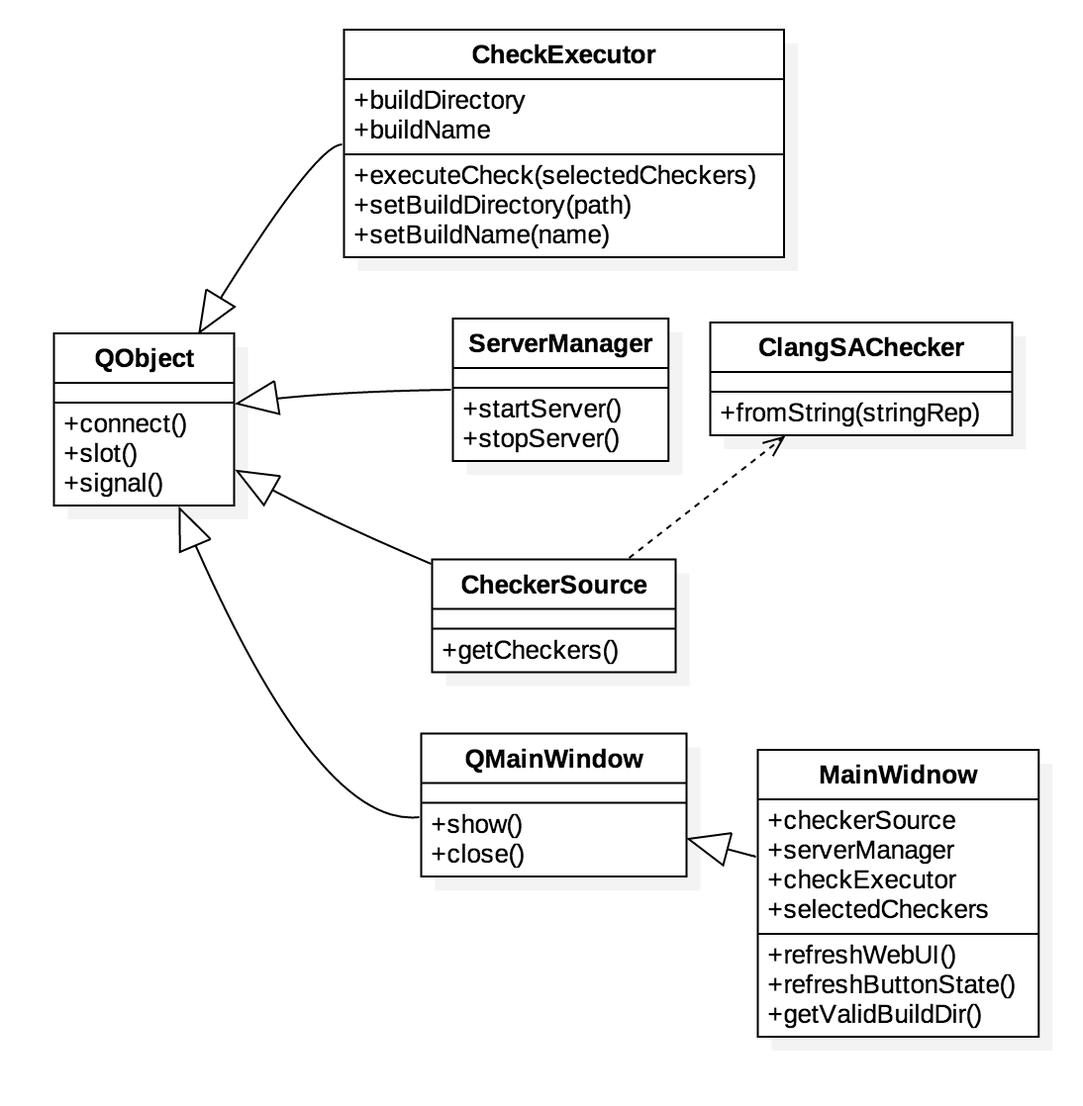
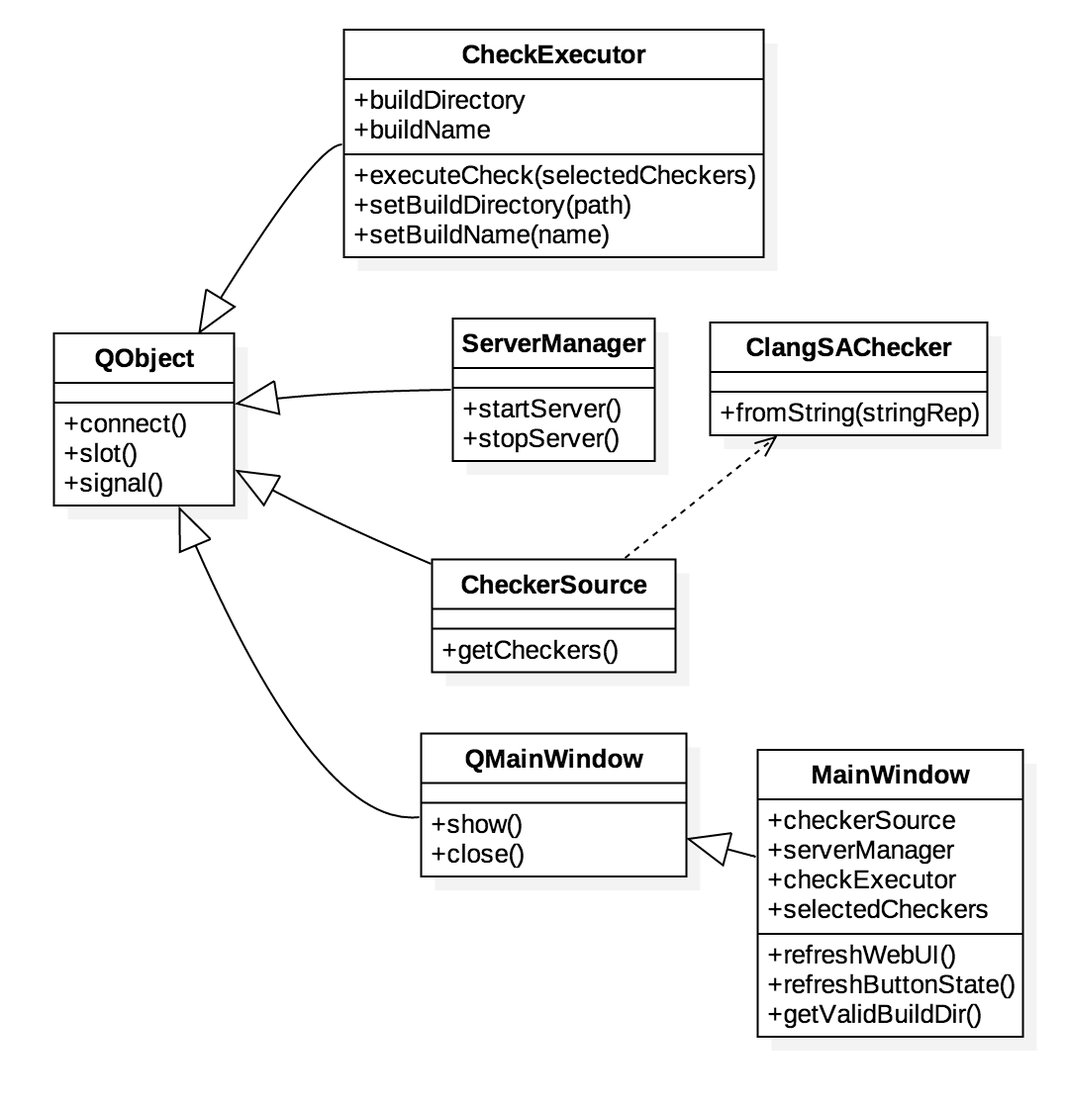
Add checker diagram, fixes

diff --git a/szakdolgozat.tex b/szakdolgozat.tex
@@ -137,7 +137,7 @@ Az ilyen jellegű hibák felismerésére több információval kell rendelkeznü
 \item az \texttt{open} hívás visszatérési értékével, mint paraméterrel nem volt hívás a \texttt{close} függvényre
 \end{itemize}
 Az, hogy egy változóban tároljuk el az \texttt{open} hívás értékét, technikai részlet. Mégis fontos, mert nem lenne sok értelme egy megnyitott leírót rögtön bezárni, és a hibakeresés lehetőségétől is elesnénk.
-Valójában azt is mondhatjuk, hogy minden szemantikailag helyes használata ennek az API-nak feltételezi, hogy a fileleíró értékét a memóriában őrizzük ameddig ténylegesen használjuk az erőforrást. Mindezt azért, mert így később fel tudjuk szabadítani. Ilyen esetben a kiegészített követelményrendszer:
+Valójában azt is mondhatjuk, hogy minden szemantikailag helyes használata ennek az API-nak feltételezi, hogy a fileleíró értékét a memóriában őrizzük ameddig ténylegesen használjuk az erőforrást. Mindezt azért, mert így később fel tudjuk szabadítani. Az eddigi észrevételeinket az alábbi módon egészíthetjük ki:
 \begin{itemize}
 \item volt egy \texttt{open} hívás
 \item az \texttt{open} hívás visszatérési értékét egy változó formájában eltároljuk a memóriában, jelenleg ez az \emph{fd}
@@ -289,7 +289,7 @@ Az \emph{LLVM} projekt optimalizálási technikák széles körét beveti, hogy 
 \section{Clang}
 A \emph{Clang} egy frontend, amely a C nyelvi család fordítását végzi. Ennek eredménye az LLVM IR forma. A \emph{Clang} fejlesztése közben emellett az is szempont volt, hogy megfelelő betekintést adjon a fordítás folyamatába, és jó minőségű diagnosztikai információval szolgáljon. Így a \emph{Clang} fordító nem csak a végzetes hibákat jelző üzenetekkel kommunikál a fejlesztő felé, hanem figyelmeztető üzenetekkel is. Emellett a \emph{Clang} forráselemző és forrástranszformációs feladatot is ellát. Ezek a tevékenységek a fordítás során végzett szintaktikus elemzés eredményeit használják fel, így kézenfekvő, hogy a \emph{Clang} keretében kerültek megvalósításra.
 
-\subsection{Fordító}
+\subsection*{Fordító}
 A \emph{Clang} elsődleges célja, hogy a C nyelvi család általános fordítójaként használhassák. Ezt a feladatot a kiadásakor legszélesebb körben a GNU Compiler Collection látta el, és még ma is meghatározó a szerepe. A \emph{Clang}-et a fejlesztők úgy alkották meg, hogy a lehető leginkább egy a GCC fordítóval kompatibilis, annak alternatív fordítójaként használható eszköz legyen. Emellett, hogy sok platformon el tudjon terjedni, szüksége van arra, hogy a megfelelő nyelvi forrásfájlokat, illetve programkönyvtárakat fel tudja használni. A legtöbb UNIX alapú rendszer mellett a \emph{Clang} már Windows rendszeren képes akár a natív Visual Studio által kialakított környezettel együttműködni \cite{clangusermanual}.
 
 A GCC-vel való kompatibilitás és az funkciója, hogy képes más fordítási és rendszerkörnyezetekkel együttműködni jelentős többletkomplexitást ad az ,,egyszerű" fordítási feladatához. Emiatt a megvalósítása során több rétegű alkalmazásmodellt választottak a fejlesztők. A \emph{Clang} eszköz a végfelhasználó számára elsődlegesen egy, a platformnak megfelelően lefordított és csomagolt bináris állományként áll rendelkezésre. Ez az eszköz alapértelmezetten a \emph{Clang} driver részét használja, amely meghajtja a fordítási folyamatot. Ez felelős a parancssori opciók feldolgozásáért, a programkönyvtárak és a rendszerhez tartozó forrásfájlok megtalálásáért. Ez a rész az ami a beérkező parancs és argumentumok együtteséből egy konkrét művelet tervét elkészíti. Lásd \ref{fig:clangdriver}.
@@ -347,7 +347,7 @@ Miután a fordító kiválasztott egy eszközt, az eszköz feladata, hogy Comman
 \subsubsection{Execute}
 A fordítás végrehajtása a driver számára a legegyszerűbb lépés, kevés opcióval, van azonban lehetőség a programkimenetek átirányítására, az egyes eszközök visszatérési értékeinek továbbadására, illetve a folyamatok teljesítménymérésére is.
 
-\subsection{Elemző}
+\subsection*{Elemző}
 A \emph{Clang} eszköz alapértelmezetten megpróbál segítséget nyújtani a fordítás során akkor is ha külön nem kérjük rá. A fordításkor felmerülő hibaüzenetek mellett figyelmeztetőüzenet széles skáláját használja ahhoz, hogy az esetleges hibák, nem várt működések kiküszöbölésében segítse a programozót.
 
 A fordítás közben kiadott hibaüzenetek és figyelmeztetések mellett lehetőség van más vizsgálatok lefuttatására is amelyek a tüzetesebb vizsgálatnak vetik alá a programot. Ezek általában valamilyen futás, vagy fordításidejű költséggel rendelkeznek, ezért a közönséges fordítás alatt nem futnak le alapértelmezetten.
@@ -645,7 +645,8 @@ sudo apt-get install clang-3.8 build-essential curl doxygen gcc-multilib \
 
 Ezután a könyvtárban található \texttt{install.sh} script segítségével lehet telepíteni a CodeCheker-t, és magát az alkalmazást is. Internetkapcsolat szükséges, mert a Python csomagkezelő, illetve a CodeChecker egyedi függőségeinek feloldása is megköveteli. A \emph{CodeChecker} alapértelmezetten a függőségek között feltelepített clang-3.8 -as verziót használja, de természetesen lehetőség van felhasználó által összeállított könyvtár használatára is. Ennek lépéseit már ismertettem a dolgozat első felében a 3.1-es fejezetben. Ha az aktuális felhasználó home könyvtárában végeztük az ott szereplő lépéseket, akkor a program már alapértelmezetten azt használja, elősegítve a fejlesztői környezet gyors összeállítását. Ha esetleg más könyvtárban tároljuk a lefordított \emph{LLVM} és \emph{Clang} komponenseket, akkor a használni kívánt könyvtárat a \texttt{codechecker-wrapper} állományban állíthatjuk be.
 
-A programot a \texttt{checkrunner.sh} állomány segítségével indíthatjuk el. A grafikus felület indításakor a program kezelőfelületén láthatjuk az aktuálisan használt \emph{Clang} eszközben regisztrált checker-eket a bal felső részen. A felület lehetőséget biztosít arra, hogy csak bizonyos checker-eket futtassunk le. Ez kifejezetten hasznos amikor tesztelni szeretnénk egy általunk fejlesztett modult. A modulok neve szerepel a felsorolásban, amelyek mellett pipálható dobozok segítségével érvényesíthetjük a választásunkat.
+\section{Használat}
+A programot a \texttt{checkrunner.sh} állomány segítségével indíthatjuk el. A grafikus felület indításakor a program kezelőfelületén láthatjuk az aktuálisan használt \emph{Clang} eszközben regisztrált checker-eket a bal felső részen. A felület lehetőséget biztosít arra, hogy csak bizonyos checker-eket futtassunk le. Ez kifejezetten hasznos amikor tesztelni szeretnénk egy általunk fejlesztett modult. A modulok neve szerepel a felsorolásban, amelyek mellett pipálható dobozok (checkbox-ok) segítségével érvényesíthetjük a választásunkat.
 
 
 \begin{figure}[h]
@@ -654,7 +655,7 @@ A programot a \texttt{checkrunner.sh} állomány segítségével indíthatjuk el
 \includegraphics[scale=0.36]{ui.png}
 \end{figure}
 
-A felület bal alsó részén található egy indikátor, mely a háttérben futó adatbázis, és webszerver állapotát hivatott mutatni, ha \emph{Running!} szöveg szerepel, akkor fut, és ebben az esetben lehetőség van a használat megkezdésére. A következő sorban megadhatjuk az analízis nevét, ezzel tudjuk megtalálni a későbbiekben. A következő sorban meg kell adnunk azt az útvonalat, amely az elemzésre váró projekthez tartozik. Megkötés, hogy csak olyan projektmappát választhatunk ki, amely rendelkezik egy \texttt{Makefile} állománnyal. Ha esetlegesen nem a GNU Make alkalmazás segítségével működik a build rendszerünk, akkor sok esetben valamilyen előfeldolgozó lépés után Makefile-okhoz juthatunk, és akkor az alkalmazás már tudja futtatni az analízist. Abban az esetben, ha nem megfelelő a könyvtár, a program informatív hibaüzenettel kommunikálja ezt a felhasználó felé. Ameddig az analízis nem futtatható, addig szürke állapotban láthatjuk a \emph{Run check} gombot.
+A felhasználói felület indításakor automatikusan elindítja a CodeChecker beépített adatbázis, és webszerver komponensét, és ezen komponensek folyamatos működése előfeltétele a program működésének. A felület bal alsó részén található egy indikátor, mely a háttérben futó adatbázis, és webszerver állapotát hivatott mutatni. ha \emph{Running!} szöveg szerepel, akkor fut, és ebben az esetben lehetőség van a használat megkezdésére. A következő sorban megadhatjuk az analízis nevét, ezzel tudjuk megtalálni a későbbiekben. A következő sorban meg kell adnunk azt az útvonalat, amely az elemzésre váró projekthez tartozik. Megkötés, hogy csak olyan projektmappát választhatunk ki, amely rendelkezik egy \texttt{Makefile} állománnyal. Ha esetlegesen nem a GNU Make alkalmazás segítségével működik a build rendszerünk, akkor sok esetben valamilyen előfeldolgozó lépés után Makefile-okhoz juthatunk, és akkor az alkalmazás már tudja futtatni az analízist. Abban az esetben, ha nem megfelelő a könyvtár, a program informatív hibaüzenettel kommunikálja ezt a felhasználó felé. Ameddig az analízis nem futtatható, addig szürke állapotban láthatjuk a \emph{Run check} gombot.
 
 
 \begin{figure}[h]
@@ -681,12 +682,12 @@ Itt lehetőségünk van még az egyes futások eredményeinek törlésére, ille
 \includegraphics[scale=0.4]{ui_results_open.png}
 \end{figure}
 
-A program \texttt{File} menüjében egy \texttt{Open} és egy \texttt{Exit} művelet található. Az \texttt{Open} művelet ugyanazt a szerepet látja el mint a build-könyvtárat kiválasztó gomb, de lehetőség van \texttt{Control-O} billentyűparancssal az elérésére. Az \texttt{Exit} művelet értelemszerűen a kilépésre szolgál, billentyűparancsa a \texttt{Control-Q}. Emellett az ablakkezelő rendszer szokások kicsinyítés és nagyítás, tálcára helyezés és befejezés műveleteit is használhatjuk.
+A program \texttt{File} menüjében egy \texttt{Open} és egy \texttt{Exit} művelet található. Az \texttt{Open} művelet ugyanazt a szerepet látja el, mint a build-könyvtárat kiválasztó gomb, de lehetőség van \texttt{Control-O} billentyűparanccsal az elérésére. Az \texttt{Exit} művelet értelemszerűen a kilépésre szolgál, billentyűparancsa a \texttt{Control-Q}. Emellett az ablakkezelő rendszer szokásos kicsinyítés és nagyítás, tálcára helyezés és befejezés műveleteit is használhatjuk.
 
 \chapter{Fejlesztői dokumentáció}
 
 \section{Grafikus felület}
-A program felhasználói felülete a Qt eredetileg C++-ban írt rendszerét használja, mégis a CheckRunner végleges verziója Python nyelven került megvalósításra. A PyQt5 csomag gondoskodik a grafikus keretrendszer dinamikusan betölthető könyvtárainak elérhetővé tételéről. A modul írói elvégezték azokat a platformspecifikus illesztéseket, amelyek lehetővé teszik, hogy egy univerzális Python 3-as alkalmazás is ki tudja használni a Qt keretrendszer közel minden funkcióját.
+A program felhasználói felülete a Qt \cite{qthomepage} eredetileg C++-ban írt rendszerét használja, mégis a CheckRunner végleges verziója Python nyelven került megvalósításra. A PyQt5 csomag gondoskodik a grafikus keretrendszer dinamikusan betölthető könyvtárainak elérhetővé tételéről. A modul írói elvégezték azokat a platformspecifikus illesztéseket, amelyek lehetővé teszik, hogy egy univerzális Python 3-as alkalmazás is ki tudja használni a Qt keretrendszer közel minden funkcióját.
 
 A CheckRunner szoftveren való fejlesztésbe be lehet tehát kapcsolódni anélkül, hogy a felhasználói követelményeknél többet kellene teljesítenünk. A program alapvetően egy főablakból áll, amely modulárisan felhasznál három másik komponenst, hogy a CodeChecker háttérfolyamatokkal kommunikáljon. A program által megoldott problémák közül a háttérfolyamatokkal való kommunkáció volt a legérdekesebb. Előfordulnak egyszeri, gyorsan lefutó parancsok, hosszantartó folyamatok, melyekkel kommunikálni kell, és egy olyan folyamat is amely maga is szülőprocessz-ként viselkedik, és amelynek megállítása nem vonja maga után a gyerekeinek a megállását sem. Ezen esetek a fejlesztés során szerzett tapasztalataim szerint mind előfordulnak.
 
@@ -728,9 +729,11 @@ Mindhárom alkomponens szignálokkal kommunikál a főablakkal, hogy az aszinkro
 \includegraphics[scale=0.3]{osztalydiagram.png}
 \end{figure}
 
-A kiválasztott és nem kiválasztott checkereket külön külön listában tartjuk számon, mert alapvetően a CheckExecutor osztály executeCheck metódusának parancssori paraméterekel kell felsorolnia, hogy mely checker-eket kívánja futtatni és melyeket kihagyni. A checker-ek leképezése a felhasználó felület kiválasztott elemeivé, illetve a fordított irányú konverzió a MainWindow osztályban zajlik le.
+A kiválasztott és nem kiválasztott checker-eket külön-külön listában tartjuk számon, mert alapvetően a CheckExecutor osztály executeCheck metódusának parancssori paraméterekel kell felsorolnia, hogy mely checker-eket kívánja futtatni és melyeket kihagyni. A checker-ek leképezése a felhasználó felület kiválasztott elemeivé, illetve a fordított irányú konverzió a MainWindow osztályban zajlik le.
 
 A CodeChecker hagyományos használatával ellentétben a CheckRunner nem egy parancs keretében tisztítja meg a build-könyvtára és építi újból a vizsgált projektet, hanem két egymást követő folyamat keretében. Ennek a QProcess osztály parancsértelmező képessége szab határt, nem tud beágyazott parancsokat kezelni. Emiatt a folyamatkezelés kissé bonyolultabb lesz az executeCheck metódusban.
+
+A program a CodeChecker-rel való együttműködése során kihasználja  annak szolgáltatásait, egyrészt, hogy a checker-futtatás eredményét egy alapértelmezetten fájlalapú adatbázisban tárolja, másrészt, hogy ezzel az adatbázissal kommunkálva, webes felületen biztosít hozzáférést a CodeChecker az eredményekhez.
 
 \begin{figure}[h]
 \caption{Felhasználói esetek.}
@@ -771,7 +774,11 @@ std::cout << std::setprecision(3) << var;
 
 A megvalósítás során felhasználjuk a Clang SA által a checker-eknek biztosított tárolási lehetőséget egy asszociatív (map) jellegű tároló formájában. Minden stream-et a memóriában elfoglalt helye alapján azonosítunk, és ehhez, mint kulcshoz rendeljük a saját magunk által számon tartott formázási állapotok struktúráját, illetve hogy eredetileg melyik függvényben történt az első változtatás. Így a szimbolikus végrehajtás során minden alkalommal amikor egy egyező memóriaterületű stream objektumon módosítást tapasztalunk, akkor feljegyezzük. Az \texttt{EndFunction} eseményre ezután már könnyű reagálni, hiszen csak meg kell nézni, milyen streamek állapotait tartjuk számon, azok közül amelyiknél a bejegyzett első módosítás környezete éppen az a függvény amiből kilépünk. Ha az állapotok közül ilyenkor egy is eltér az alapértelmezettől, akkor hibaüzenetet adunk. Itt kezeljük még a kivételes esetet is, amikor volt \texttt{.flags()} hívás az objektumon. Ilyen esetben nem adunk hibát bármilyen is legyen a számon tartott stream.
 
---------- osztálydiagram az ostreamchecker fontosabb részeiről ---------
+\begin{figure}[h]
+\caption{A két checker egyszerűsített osztálydiagramja.}
+\centering
+\includegraphics[scale=0.4]{checkers.png}
+\end{figure}
 
 Az EnumCastOutOfRange checker egyszerűbb felépítésű. Itt a feladat az volt, hogy akkor adjunk hibát, hogy ha egy olyan típuskikényszerítés (cast) történik, melynek operandusa egy egész értéktípusba tartozó érték, és a paramétere, vagyis az a típus amibe kényszerítjük egy olyan enumeráció típus, amely típus definíciójából kiderül, hogy nem is képes reprezentálni az operandust.
 
@@ -782,19 +789,18 @@ enum GraphNode {
 	GRAY,
 	BLACK
 };
-
 GrapNode startNode = static_cast<GraphNode>(5);
 //startNode's value is undefined
 \end{lstlisting}
 
-Ilyen esetben ha nem képes az enumerációs típus tárolni az értéket, akkor cast eredménye nem definiált. Ahhoz, hogy egy enumerációs típus használni tudjunk szükség van a definíciójára a használat pontján, így azt a stratégiát választottam, hogy iratkozzon fel a checker a \texttt{PreStmt}, vagyis pre-statement, egy utasítás végrehajtása előtti eseményre. Abban az esetben, ha ez az utasítás egy cast-ot jelent (ez lehet C-stílusú, vagy lehet C++-os static\_cast), és ráadásul a céltípus enumerációs jellegű, akkor megvizsgálom hogy lehetséges ez a művelet.
+Ilyen esetben ha nem képes az enumerációs típus tárolni az értéket, akkor cast eredménye nem definiált. Ahhoz, hogy egy enumerációs típus használni tudjunk szükség van a definíciójára a használat pontján, így azt a stratégiát választottam, hogy iratkozzon fel a checker a \texttt{PreStmt}, vagyis pre-statement, egy utasítás végrehajtása előtti eseményre. Abban az esetben, ha ez az utasítás egy cast-ot jelent (ez lehet C-stílusú, vagy lehet C++-os static\_cast), és ráadásul a céltípus enumerációs jellegű, akkor megvizsgálom,  hogy ez a művelet a probléma kitűzése szerint valid lehet-e.
 
 Ehhez egyik oldalról szükség van az enumeráció definíciójára, ez rendelkezésre is áll. A definíció egyszerűen megtalálható, és ha mint AST egy szelete hozzáfértünk, akkor meg is tudjuk belőle a lehetséges értékeket. Másik oldalról szükséges számunkra az érték amit cast-olunk. Ez sokszor nehezebb, és a checker kihasználja, hogy szimbolikus értékekkel történik a végrehajtás. A szimbolikus értékek valójában a valós futás során ténylegesen létező értékeket szimbolizálják megkötések (constraint-ek) formájában. Még ha nem is ismert az operandus konkrét értéke, a Clang SA által vezetett megszorításlisták segítségével ellenőrizhetjük, hogy létezik-e olyan eset, hogy az operandus valóban megfelelő értékkel bír. Akkor adunk hibát, ha nem létezik ilyen eset, hiszen egyik célunk, hogy ne produkáljunk hamis pozitív jelzéseket, ezért konzervatív módon járunk el.
 
 
 \chapter{Tesztek}
 
-Mindkét checker-em rendelkezik automatizált unit-tesztekkel. Az OStreamFormatChecker tesztelése során külön nehézséget jelentett, hogy az egyik legvalószínűbb tesztelési célpont a sztenderd kimenetet szimbolizáló std::cout, ez pedig megvalósítását tekintve úgy működik a legtöbb sztenderd nyelvi könyvtár (STL) megvalósításban, hogy az iostream header tartalmaz egy statikus tagot, amely tárolja a globális \texttt{std::cout} stream objektumot. Emiatt a viselkedése miatt az egész \emph{LLVM} kódbázisból ki van tiltva az iostream header használata. Ahhoz hogy tesztelni tudjam a checkert létre kellett hozni az STL-es output rendszer a vázát, amely alapján ha implementáció nélkül is, de szintaktikailag helyesen lehet hivatkozni a tesztesetek közben az \texttt{std::cout} objektumra, és a rá értelmezett műveletekre. Ez a mock-megvalósítás maga legalább annyi időt vesz igénybe mint a tesztesetek megírása, viszont sokat segíthet másoknak is aki hasonló funkcionalitás tesztelésébe fognak.
+Mindkét checker-em rendelkezik automatizált unit-tesztekkel. Az OStreamFormatChecker tesztelése során külön nehézséget jelentett, hogy az egyik legvalószínűbb tesztelési célpont a sztenderd kimenetet szimbolizáló \texttt{std::cout}, ez pedig megvalósítását tekintve úgy működik a legtöbb sztenderd nyelvi könyvtár (STL) megvalósításban, hogy az iostream header tartalmaz egy statikus tagot, amely tárolja a globális \texttt{std::cout} stream objektumot. Emiatt a viselkedése miatt az egész \emph{LLVM} kódbázisból ki van tiltva az iostream header használata. Ahhoz hogy tesztelni tudjam a checkert létre kellett hozni az STL-es output rendszer a vázát, amely alapján ha implementáció nélkül is, de szintaktikailag helyesen lehet hivatkozni a tesztesetek közben az \texttt{std::cout} objektumra, és a rá értelmezett műveletekre. Ez a mock-megvalósítás maga legalább annyi időt vesz igénybe mint a tesztesetek megírása, viszont sokat segíthet másoknak is akik hasonló funkcionalitás tesztelésébe fognak.
 
 Az OstreamFormatChecker tíz automatizált tesztesete lefedi a tesztelni kívánt működés nagyrészét. Van benne egyszeri módosítás, több módosítás egymásutánja, az értékek visszaállítása, illetve ennek elmulasztása, és vannak benne olyan esetek amikor a szimbolikus végrehajtónak a megszorítások alapján kell kitalálnia, hogy tényleg történt-e módosítás vagy nem. Az EnumCastOutOfRange tizenhat tesztesettel rendelkezik C-stílusú és C++ cast-olásokra, illetve megadott háttértípussal rendelkező és hagyományos, C-beli globálisan értelmezett és C++11-es láthatósági körrel rendelkező enumerációkra egyaránt.
 
@@ -876,7 +882,7 @@ class progress_timer : public timer, private noncopyable
 Ennek a hibának az az érdekessége, hogy a kód írója külön figyelmet fordított a formázási flag-ek visszaállítására, de ha kivétel lép fel, akkor mégsem garantált az alapértelmezett állapot visszaállítása.
 
 \chapter{Összefoglalás}
-Szakdolgozatomban ismertettem a modern szoftverfejlesztés eszköztárának fontosabb elemeit. Összehasonlításra került a statikus és a dinamikus kódelemzési stratégia, külön hangsúlyt fektetve a statikus elemzés jellegzetességeire. Emellett több példán keresztül bemutatásra került az eszköztár, illetve a modellezési módszerek, amelyek ezt lehetővé teszik. Kiterjesztést nyert a \emph{Clang} keretrendszer is, több hibát képes felismerni a két checkernek köszönhetően mint azelőtt. Bemutattam az \emph{LLVM} és a \emph{Clang} eszköz felhasználási lehetőségeit egy praktikus program keretében, mely statikus elemzéshez kapcsolódó eszközöket fogott össze egy grafikus felületbe.
+Szakdolgozatomban ismertettem a modern szoftverfejlesztés eszköztárának fontosabb elemeit. Összehasonlításra került a statikus és a dinamikus kódelemzési stratégia, külön hangsúlyt fektetve a statikus elemzés jellegzetességeire. Emellett több példán keresztül bemutatásra került az eszköztár, illetve a modellezési módszerek, amelyek ezt lehetővé teszik. Kiterjesztést nyert a \emph{Clang} keretrendszer is, több hibát képes felismerni a két checker-nek köszönhetően mint azelőtt. Bemutattam az \emph{LLVM} és a \emph{Clang} eszköz felhasználási lehetőségeit egy praktikus program keretében, mely statikus elemzéshez kapcsolódó eszközöket fogott össze egy grafikus felületbe.
 
 A program számos továbbfejlesztési lehetőséggel rendelkezik. A \emph{CodeChecker} rendszerrel való hatékonyabb integráció lehetséges anélkül, hogy feláldozzuk a moduláris felépítést. A \emph{CodeChecker} szoftvernek modern elvárásokkal összhangban zajló virtualizálása jelenleg fejlesztés alatt áll, egy \emph{Docker} konténer segítségével lehetőség lesz akár felhőalapú futtatására is. A CheckRunner szoftver illeszthető lehet az ilyen jellegű használathoz.
 
@@ -928,9 +934,11 @@ Destination of Messages}.  2009 https://doi.org/10.1016/j.entcs.2009.09.064 2017
 
 \bibitem{securecodingint50} INT50-CPP specifikáció. https://www.securecoding.cert.org/confluence/display/cplusplus/INT50-CPP.+Do+not+cast+to+an+out-of-range+enumeration+value 2017.05.06
 
-\bibitem{codecheckerslide} CodeChecker szerkezet. https://www.slideshare.net/GyorgyOrban/static-analysis-of-c-programs 2017.06.08
+\bibitem{codecheckerslide} CodeChecker szerkezet. https://www.slideshare.net/GyorgyOrban/static-analysis-of-c-programs 2017.05.08
 
-\bibitem{dockerhomepage} Docker weboldal. https://www.docker.com/
+\bibitem{qthomepage} Qt grafikus keretrendszer honlapja. https://www.qt.io/ 2017.05.12
+
+\bibitem{dockerhomepage} Docker weboldal. https://www.docker.com/ 2017.05.12
 
 \end{thebibliography}
 \end{document}
